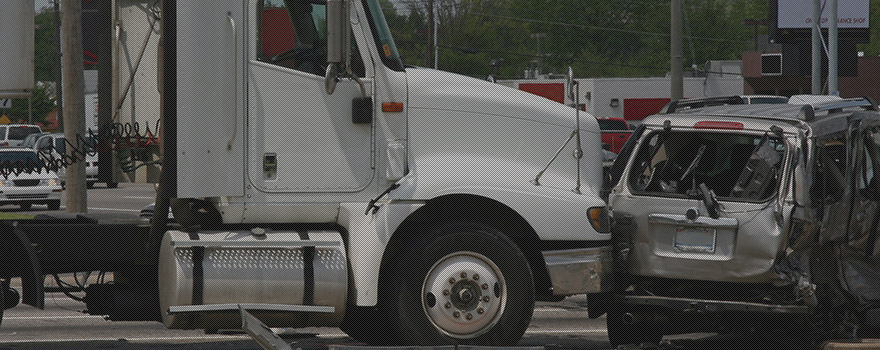
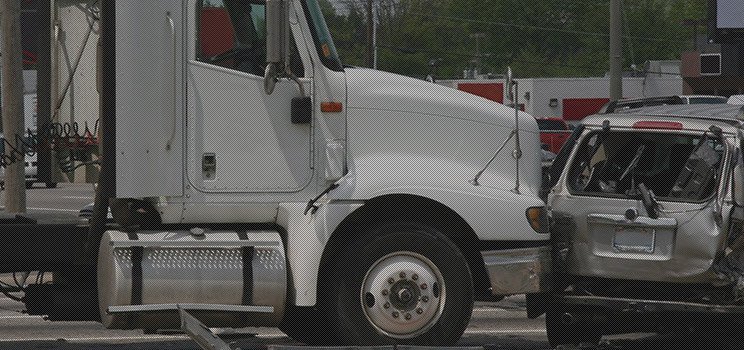
last one

diff --git a/app/assets/stylesheets/static_pages.scss b/app/assets/stylesheets/static_pages.scss
@@ -85,30 +85,31 @@ hr.fancy {border-top:1px solid rgba($offwhite, .3); width: 60%; position: relati
 
 	.site-intro{
 		@include sec-default();
-		height:700px;
+		height:550px;
 		@include sec-bgimage();
-		background-image: url(image_path('flipped.jpg'));
+		background-image: url(image_path('home-header.jpg'));
 		background-position: center center;
 
 		.overlay {
 			@include sec-default(); height:100%;
-			background-color: rgba($dark, .6);
-		  padding-top: 200px;
+			background-color: rgba($dark, .5);
+		  padding-top: 130px;
 		}
 
 		.title-block{
 			text-align: center;
-			width:52%;
-			border: 1px solid rgba($silver, .3);
+			width:50%;
+			// border: 1px solid rgba($silver, .1);
 			padding: 40px 30px;
-			margin: auto;
+			margin-left: 5%;
+			// background-color: rgba($dark, .1);
 		}
 		.title-line {width: 65%; @include center-block(); height: 1px; background-color: rgba($silver, .4); margin-bottom: 10px;}
 		.text{width: 95%; @include center-block();padding-top:35px;}
-		h1, h2, h4 {font-weight: bold; color: $silver; @include tshadowl($dark);}
+		h1, h2, h4 {font-weight: bold; color: $white; @include tshadowl($dark);}
 		h1 {font-size: 4em;margin-bottom: 0;}
 		h2 {font-size: 3em;letter-spacing: 10px;}
-		h3{font-family: $open; font-weight: 600; color: $silver; @include tshadowl($black); line-height: 1.5em;}
+		h3{font-family: $open; font-weight: 600; color: $white; @include tshadowl($black); line-height: 1.5em;}
 		h4{font-family: $open; line-height: 1.5em; font-size: 20px; font-weight: 600;}
 	}
 
@@ -247,8 +248,6 @@ hr.fancy {border-top:1px solid rgba($offwhite, .3); width: 60%; position: relati
 		.text {width: 30%; float: left;display: inline-block; height: 100%;}
 		.content {width: 50%; float: right; height: 100%; }
 	}
-
-
 }
 
 .page {
@@ -463,13 +462,17 @@ hr.fancy {border-top:1px solid rgba($offwhite, .3); width: 60%; position: relati
 	}
 
 	.consult-box {width: 48%; float: left; text-align: center;
-		padding: 40px 30px;
-		h4{ font-size: 18px;line-height: 1.5em; font-weight: normal; color: $white; margin-bottom: 5px; font-weight: 600; @include tshadow($dark);padding-bottom: 15px;
+		padding: 20px 30px 10px;
+		h4{ font-size: 18px;line-height: 1.5em; font-weight: normal; color: $white; margin-bottom: 5px; font-weight: 600; @include tshadow($dark);padding-bottom: 5px;
 			&.none {padding-bottom: 10px;}}
 		h3 { padding-top:15px; margin-bottom: 0px;@include tshadow($dark);
 			&.phone {padding-bottom: 5px; font-weight: 600; color: $lt-blue; @include tshadow($dark);}
 		}
 		p {color: $white; font-size: 17px;}
+
+		h2{font-family: $open; color: $white; font-weight: bold; @include tshadow($dark);text-transform: uppercase; margin-bottom: 30px;
+				span{color: $lt-blue}
+			}
 	}
 }
 
@@ -483,10 +486,11 @@ hr.fancy {border-top:1px solid rgba($offwhite, .3); width: 60%; position: relati
 }
 
 .resources { background-color: $light;
-	background-image: url(image_path('lawyer-ph'));
+	background-image: url(image_path('blur'));
 	@include sec-bgimage();
 	.cst-header {
 		height: 250px;
+		background-color: rgba($dark, .55);
 
 		h1 {color: $white; font-size: 45px; @include tshadow(rgba($dark, .6));font-family: $open; margin-top: 60px;}
 		h4 {font-weight: bold; color: $white; @include tshadow(rgba($dark, .8)); font-family: $open;}
@@ -550,7 +554,7 @@ hr.fancy {border-top:1px solid rgba($offwhite, .3); width: 60%; position: relati
 .about {
 	.inside-sec {
 		@include sec-default(); @include sec-bgimage(); position: relative; z-index: 0;
-		background-image: url(image_path('traffic.jpg'));
+		background-image: url(image_path('blur.jpg'));
 		&::before {@include before(); height: 56%; background-color: rgba($dark, .8);}
 	}
 	.cst-header {
@@ -578,12 +582,17 @@ hr.fancy {border-top:1px solid rgba($offwhite, .3); width: 60%; position: relati
 		}
 	}
 
-
 	.practice-claims-full { @include sec-default(); background-color: $blue;
-		.practice-boxes-op { width: 33.2%; float: left; display: inline-block; padding:30px 30px 25px; text-align: center; color: $white; background-color: $blue; margin: 0;
+		.practice-boxes-op { width: 33.3%; float: left; display: inline-block; padding:30px 30px 25px; text-align: center; color: $white; background-color: $blue; margin: 0;
+			position: relative;z-index: 0;
+			@include sec-bgimage();
+			background-position: center center;
+			&::before {@include before(); background-color: rgba($blue, .85);}
+
 			h4 {font-family: $open; color: $white; line-height: 1.4em; font-weight: 600;}
-			&.bike {background-color: $dk-blue;}
-			&.auto {background-color: #00447c;}
+			&.bike {background-image: url(image_path('speed-bike.jpg'));&::before {background-color: rgba($dk-blue, .85);}}
+			&.auto { background-image: url(image_path('accident1.jpg'));&::before {background-color: rgba(0,68,124, .85)}}
+			&.trucker {background-image: url(image_path('semi-wreck.jpg'));}
 			i {font-size: 25px; padding: 13px 12px; border:1px solid $white; border-radius: 50%; margin-bottom: 10px;}
 		}
 	}
